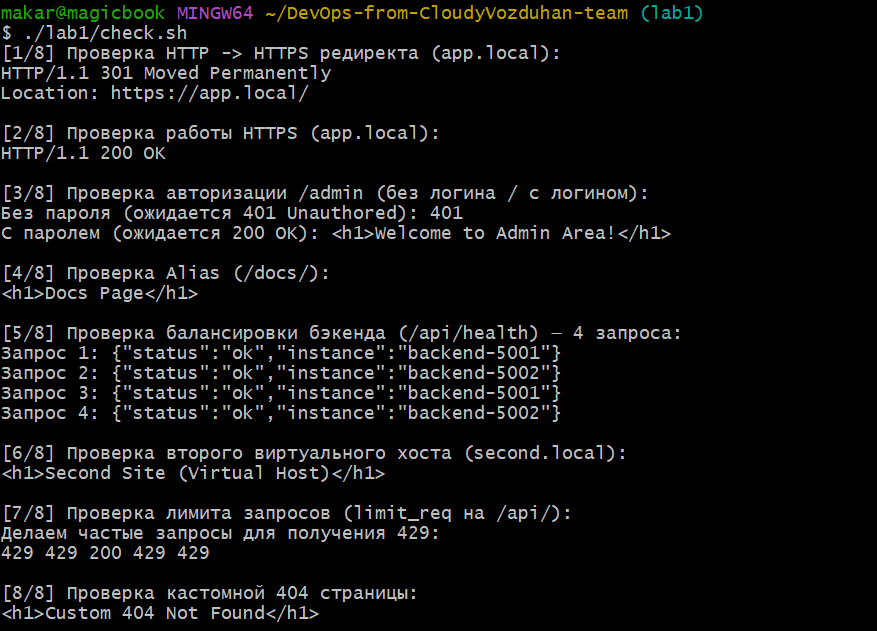
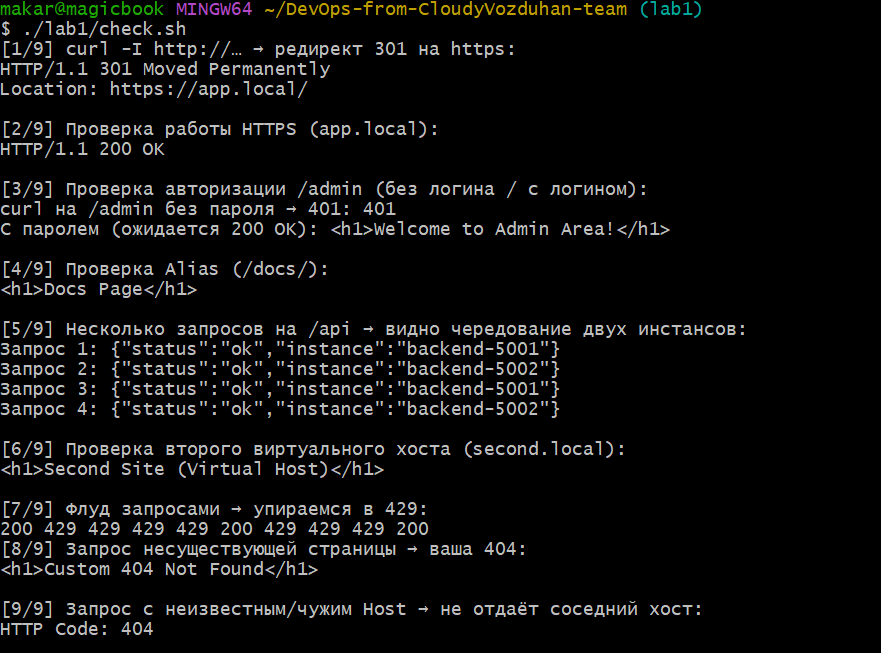
[fix]: update Lab 1 report with final test results

Changed region(s): [[0.0, 0.0, 0.862, 0.9937]]

diff --git a/lab1/report.md b/lab1/report.md
@@ -2,6 +2,12 @@
 ## Необходимое ПО (Windows)
 
 На `ОС Windows` требуется предустановить следующее программное обеспечение:
+<details>
+<summary>Итак...</summary>
+
+![meme1.jpg](/assets/lab1/meme1.jpg)
+
+</details>
 
 ### 1. Git for Windows (Git Bash)
   * Запуск утилит `curl`, `openssl`, исполнения скриптов проверки (`check.sh`, `failover_test.sh`), а также управления версиями `Git`.
@@ -56,15 +62,14 @@ def health() -> Dict[str, str]:
     return {"status": "ok", "instance": f"backend-{PORT}"}
 ```
 ## Создание nginx.conf
-В процессе создания конфига столкнулась с проблемой, из-за которой nginx возвращал ответ со статусом `200` вместо `401` при запросе без заголовка `Authorization`. 
+В процессе создания конфига столкнулась с проблемой, из-за которой nginx возвращал ответ со статусом `200` вместо `401` при запросе без заголовка `Authorization`.
 Происходило это из-за того, что фаза `Rewrite` выполняется раньше фазы `Access`, поэтому nginx отдавал ответ со статусом `200` и указанным текстом, вообще не доходя до проверки логина и пароля в файле `.htpasswd`. 
 Поэтому прямой ответ через `return` я заменила на раздачу статического файла `index.html` через директиву `alias`. (см. lab1/nginx.conf)
 ## Создание check.sh
-Написала скрипт для проверки из 8 пунктов (см. lab1/check.sh) и сделала его исполняемым:
-```
-chmod +x lab1/check.sh
-```
-Вывод:
+* В скрипт включены основные 6 пунктов проверки работы nginx и 3 дополнительные. (см. lab1/check.sh) 
+* Проверка отказоустойчивости выполнена отдельно.
+
+#### Вывод:
 
 ![check_result.png](/assets/lab1/check_result.png)
 ## Проверка отказоустойчивости 
